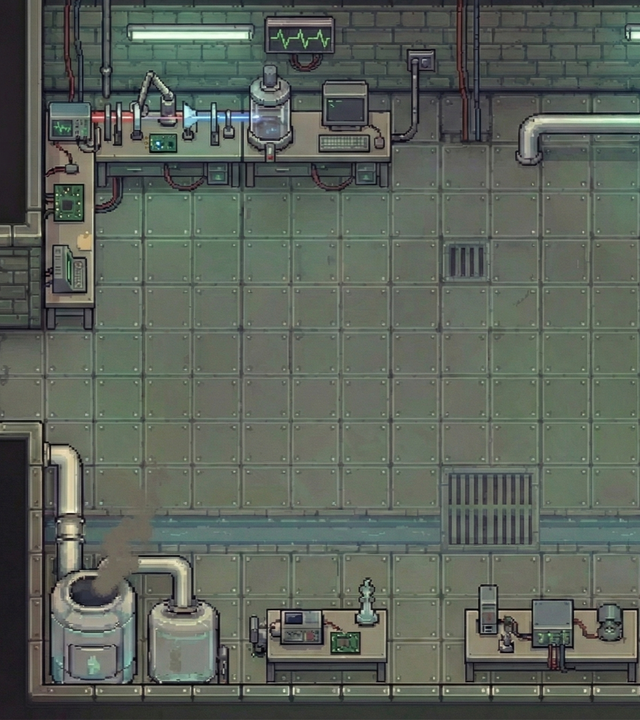
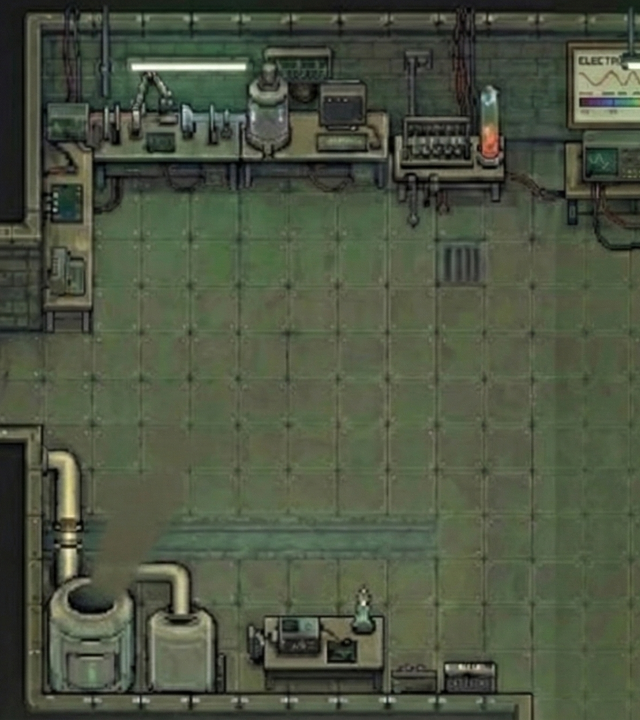
Refactor Hero and LevelT classes; update skill states and positions, add new background images

diff --git a/LevelT.cpp b/LevelT.cpp
@@ -122,8 +122,8 @@ void LevelT::update1() {
 
 void LevelT::update2() {
 	DataCenter *DC = DataCenter::get_instance();
-	shooter_pt.update_center_x(LevelSetting::lvl_bound_x[this->level-1]+800);
-	shooter_pt.update_center_y(int(DC->window_height * 0.5));
+	shooter_pt.update_center_x(LevelSetting::lvl_bound_x[this->level-1]+300);
+	shooter_pt.update_center_y(340);
 	receive_pt.update_center_x(LevelSetting::lvl_bound_x[this->level-1]+1200);
 	receive_pt.update_center_y(int(DC->window_height * 0.7));
 	Point shoot_vec(1, 0);
@@ -172,9 +172,9 @@ void LevelT::update2() {
 
 void LevelT::update3() {
 	DataCenter *DC = DataCenter::get_instance();
-	shooter_pt.update_center_x(LevelSetting::lvl_bound_x[this->level-1]+800);
-	shooter_pt.update_center_y(int(DC->window_height * 0.5));
-	receive_pt.update_center_x(LevelSetting::lvl_bound_x[this->level-1]+1200);
+	shooter_pt.update_center_x(LevelSetting::lvl_bound_x[this->level-1]+150);
+	shooter_pt.update_center_y(347);
+	receive_pt.update_center_x(LevelSetting::lvl_bound_x[this->level-1]+1000);
 	receive_pt.update_center_y(int(DC->window_height * 0.7));
 	Point shoot_vec(1, 0);
 	if (DC->hero->shape->center_x() > LevelSetting::lvl_bound_x[this->level-1] + DC->hero->get_size().center_x() / 2.0 && !is_monster_dead && !is_level_start) {
@@ -261,6 +261,11 @@ void LevelT::draw() {
 			al_draw_bitmap(background,
 						DC->camera->transform_bitmap(LevelSetting::lvl_bound_x[i], 0).center_x(),
 						DC->camera->transform_bitmap(LevelSetting::lvl_bound_x[i], 0).center_y(), 0);
+			if (i == 3) {
+				al_draw_bitmap(IC->get(LevelSetting::buffer_background_path[i]),
+						DC->camera->transform_bitmap(LevelSetting::lvl_bound_x[i]-640, 0).center_x(),
+						DC->camera->transform_bitmap(LevelSetting::lvl_bound_x[i]-640, 0).center_y(), 0);
+			}
 		} else if (DC->hero->shape->center_x() >= LevelSetting::lvl_bound_x[i+1] - 640 && DC->hero->shape->center_x() < LevelSetting::lvl_bound_x[i+1]) {
 			background = IC->get(LevelSetting::lvl_background_path[i]);
 			al_draw_bitmap(background,
@@ -284,27 +289,27 @@ void LevelT::draw() {
 	case 2: {
 		// draw puzzle items
 		// std::cout << "draw device";
-		Point offset = DC->camera->transform_bitmap(shooter_pt.center_x(), shooter_pt.center_y());
+		// Point offset = DC->camera->transform_bitmap(shooter_pt.center_x(), shooter_pt.center_y());
 		Point offset1 = DC->camera->transform_bitmap(receive_pt.center_x(), receive_pt.center_y());
-		std::string path = "./assets/image/block/wall_shoot.png";
+		// std::string path = "./assets/image/block/wall_shoot.png";
 		std::string path1 = "./assets/image/block/wall_receive.png";
-		ALLEGRO_BITMAP *bitmap = IC->get(path);
+		// ALLEGRO_BITMAP *bitmap = IC->get(path);
 		ALLEGRO_BITMAP *bitmap1 = IC->get(path1);
-		al_draw_bitmap(bitmap, offset.center_x() - al_get_bitmap_width(bitmap) / 2.0, offset.center_y() - al_get_bitmap_height(bitmap) / 2.0, 0);
-		al_draw_bitmap(bitmap1, offset1.center_x() - al_get_bitmap_width(bitmap1) / 2.0, offset1.center_y() - al_get_bitmap_height(bitmap) / 2.0, 0);
+		// al_draw_bitmap(bitmap, offset.center_x() - al_get_bitmap_width(bitmap) / 2.0, offset.center_y() - al_get_bitmap_height(bitmap) / 2.0, 0);
+		al_draw_bitmap(bitmap1, offset1.center_x() - al_get_bitmap_width(bitmap1) / 2.0, offset1.center_y() - al_get_bitmap_height(bitmap1) / 2.0, 0);
 		// draw arena items
 		break;
 	}
 	case 3: {
 		// draw puzzle items
-		Point offset = DC->camera->transform_bitmap(shooter_pt.center_x(), shooter_pt.center_y());
+		// Point offset = DC->camera->transform_bitmap(shooter_pt.center_x(), shooter_pt.center_y());
 		Point offset1 = DC->camera->transform_bitmap(receive_pt.center_x(), receive_pt.center_y());
-		std::string path = "./assets/image/block/wall_shoot.png";
+		// std::string path = "./assets/image/block/wall_shoot.png";
 		std::string path1 = "./assets/image/block/wall_receive.png";
-		ALLEGRO_BITMAP *bitmap = IC->get(path);
+		// ALLEGRO_BITMAP *bitmap = IC->get(path);
 		ALLEGRO_BITMAP *bitmap1 = IC->get(path1);
-		al_draw_bitmap(bitmap, offset.center_x() - al_get_bitmap_width(bitmap) / 2.0, offset.center_y() - al_get_bitmap_height(bitmap) / 2.0, 0);
-		al_draw_bitmap(bitmap1, offset1.center_x() - al_get_bitmap_width(bitmap1) / 2.0, offset1.center_y() - al_get_bitmap_height(bitmap) / 2.0, 0);
+		// al_draw_bitmap(bitmap, offset.center_x() - al_get_bitmap_width(bitmap) / 2.0, offset.center_y() - al_get_bitmap_height(bitmap) / 2.0, 0);
+		al_draw_bitmap(bitmap1, offset1.center_x() - al_get_bitmap_width(bitmap1) / 2.0, offset1.center_y() - al_get_bitmap_height(bitmap1) / 2.0, 0);
 		// draw arena items
 		break;
 	}

diff --git a/Hero.cpp b/Hero.cpp
@@ -89,14 +89,16 @@ void Hero::change_skill_state(SkillState new_state){
         apply_skin(2);
         bullet_state = BulletState::LIQUID;
     }
-    else if (new_state == SkillState::ELECTRIC) {
+    else if (new_state == SkillState::ELECTRIC && DC->level->get_puzzle_solved()) {
         force_shape.r = 200;
-        e = 50;
-        bullet_state = (DC->level->get_puzzle_solved()) ? BulletState::POSITIVE : BulletState::BALL;
+        bullet_state = BulletState::POSITIVE;
     }
     else if (new_state == SkillState::WAVE) {
         apply_skin(4);
         bullet_state = (DC->level->get_puzzle_solved()) ? BulletState::LASER : BulletState::BALL;
+        tool_type = ToolType::CONCAVE;
+    } else {
+        bullet_state = BulletState::BALL;
     }
     skill_state = new_state;
     // }
@@ -137,13 +139,15 @@ void Hero::update() {
             }
         }
     }
-    if (DC->key_state[ALLEGRO_KEY_Q] && !DC->prev_key_state[ALLEGRO_KEY_Q] && skill_state == SkillState::WAVE) {
+    if ((DC->key_state[ALLEGRO_KEY_Q] && !DC->prev_key_state[ALLEGRO_KEY_Q] && skill_state == SkillState::WAVE) ||
+        (tool_type == ToolType::MIRROR && DC->level->get_monster_spawn())) {
         tool_type = ToolType::CONCAVE;
     } else if (DC->key_state[ALLEGRO_KEY_E] && !DC->prev_key_state[ALLEGRO_KEY_E] && skill_state == SkillState::WAVE) {
         tool_type = ToolType::CONVEX;
     } else if (DC->key_state[ALLEGRO_KEY_R] && !DC->prev_key_state[ALLEGRO_KEY_R] && skill_state == SkillState::WAVE && !DC->level->get_monster_spawn()) {
         tool_type = ToolType::MIRROR;
-    } else if (skill_state == SkillState::ELECTRIC && !DC->level->get_monster_spawn()) {
+    }
+    if (skill_state == SkillState::ELECTRIC && !DC->level->get_monster_spawn()) {
         // std::cout << "tool type: " << (int)tool_type << std::endl;
         tool_type = ToolType::E_FIELD;
     }

diff --git a/LevelT.h b/LevelT.h
@@ -22,27 +22,27 @@ namespace LevelSetting {
 	};
 	constexpr int monster_spawn_rate = 90;
 	constexpr int hero_spawn_x[4] = {
-		60, 4660, 7860, 11060
+		60, 4705, 7828, 10837
 	};
 	constexpr int puzzle_bound_x[4] = {
-		2816, 5880, 9080, 11000 //1280./
+		2816, 5895, 8858, 10777 //1280./
 	};
 	constexpr int monster_spawn_x[4] = {
-		3476, 6520, 9720, 11640
+		3476, 6495, 9458, 11377
 	};
 	constexpr int lvl_bound_x[5] = {
-		0, 4600, 7800, 11000, 12920
+		0, 4645, 7768, 10777, 12697
 	};
 	const std::array<std::string, 4> lvl_background_path = {
 		"./assets/image/background/lv1.png", // "./assets/image/background/lv1.png"
-		"./assets/image/lvl_background.png", 
-		"./assets/image/lvl_background.png",
+		"./assets/image/background/lv2.png", 
+		"./assets/image/background/lv3.png",
 		"./assets/image/lvl4_background.png"
 	};
 	const std::array<std::string, 4> buffer_background_path = {
 		"./assets/image/tmp_background.png",
 		"./assets/image/background/lv2_buffer.png", 
-		"./assets/image/tmp_background.png",
+		"./assets/image/background/lv3_buffer.png",
 		"./assets/image/tmp_background.png"
 	};
 };
